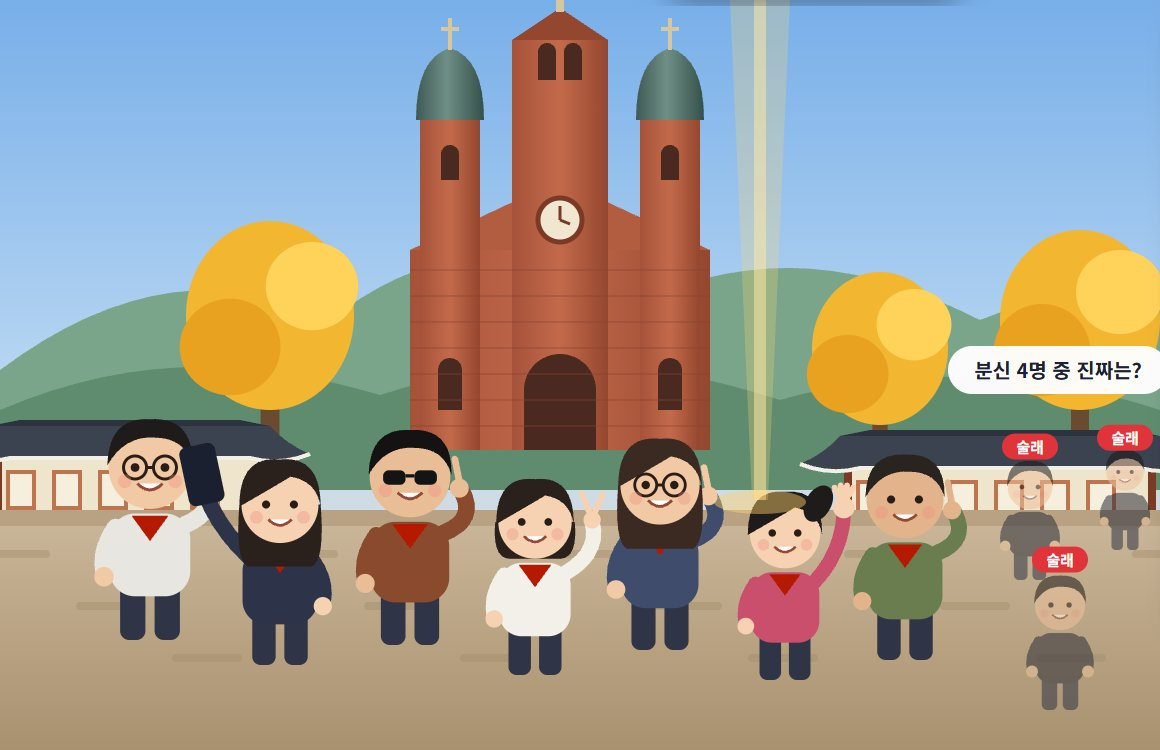
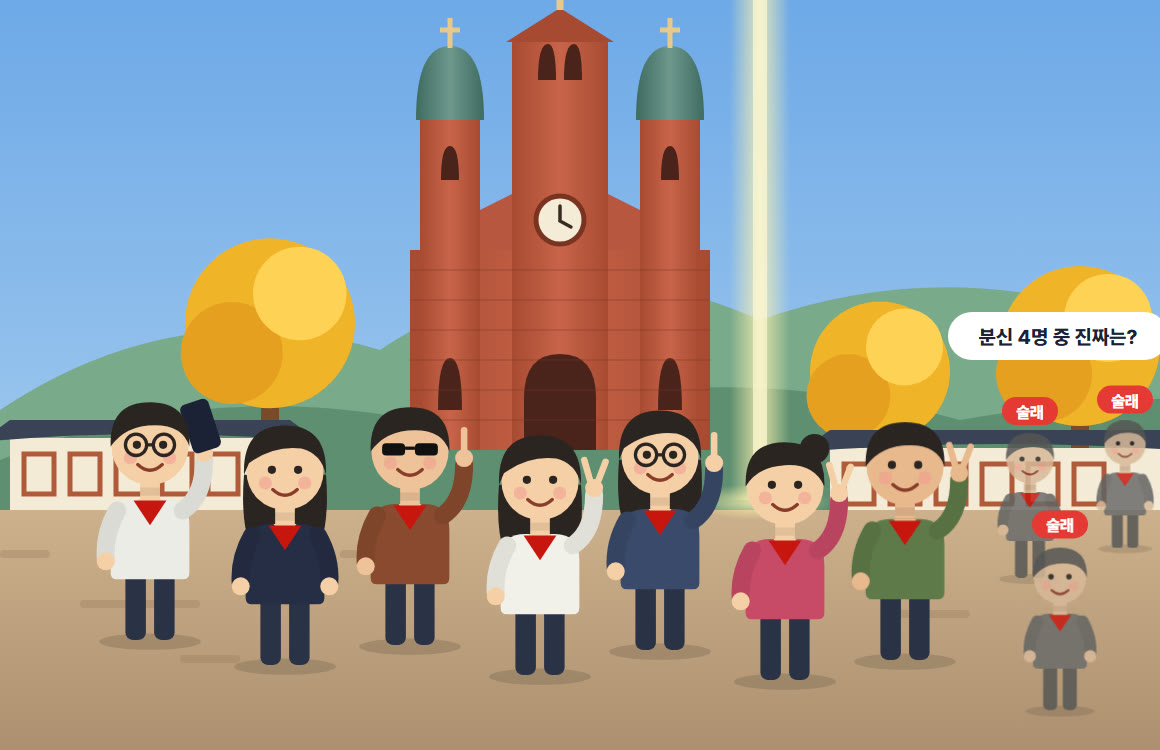
비전 퀘스트 장면 그림 다시 그림: 목 연결, 긴 머리는 몸 뒤로, 미션 빛줄기는 사람 뒤로
- 그림 원본 design/visionquest-scene.html 추가 (카드용은 ?card)

diff --git a/design/visionquest-scene.html b/design/visionquest-scene.html
@@ -1,0 +1,156 @@
+<!doctype html>
+<html lang="ko"><head><meta charset="utf-8">
+<link rel="stylesheet" href="https://cdn.jsdelivr.net/gh/orioncactus/pretendard@v1.3.9/dist/web/static/pretendard.css">
+<style>
+html,body{margin:0;background:#6aa5e6;overflow:hidden}
+svg{display:block}
+text{font-family:Pretendard,"Malgun Gothic",sans-serif;font-weight:800}
+</style></head>
+<body>
+<!-- 비전 퀘스트 사용 장면 그림 (참가자 사진 대신).
+     ?card 를 붙이면 카드용(위 배지·미션·휴대폰 없이 0,150 ~ 1160×750 영역) -->
+<svg id="s" xmlns="http://www.w3.org/2000/svg" width="1600" height="900" viewBox="0 0 1600 900"></svg>
+<script>
+const CARD = location.search.includes("card");
+const svg = document.getElementById("s");
+if (CARD) { svg.setAttribute("width",1160); svg.setAttribute("height",750); svg.setAttribute("viewBox","0 150 1160 750"); }
+const out = [];
+const add = s => out.push(s);
+
+// 사람: (x, 발끝 y) 기준. 머리 → 목 → 몸통이 이어지고, 긴 머리는 몸통 뒤에 그린다.
+function person(o) {
+  const s = o.s || 1, skin = o.skin || "#f6cfa8", hair = o.hair || "#2a2422", shirt = o.shirt, pants = o.pants || "#2b3247";
+  const g = [];
+  g.push(`<g transform="translate(${o.x} ${o.y}) scale(${s})" opacity="${o.op || 1}">`);
+  g.push(`<ellipse cx="0" cy="2" rx="62" ry="10" fill="#000" opacity=".12"/>`);
+  // 긴 머리(뒤): 어깨 높이까지만, 몸통이 덮는다
+  if (o.style === "long") g.push(`<path d="M-50 -232 Q-54 -180 -44 -150 L44 -150 Q54 -180 50 -232 Z" fill="${hair}"/>`);
+  // 다리
+  g.push(`<rect x="-30" y="-92" width="25" height="92" rx="9" fill="${pants}"/><rect x="5" y="-92" width="25" height="92" rx="9" fill="${pants}"/>`);
+  // 목
+  g.push(`<rect x="-12" y="-200" width="24" height="40" rx="8" fill="${skin}"/><rect x="-12" y="-186" width="24" height="10" fill="#000" opacity=".08"/>`);
+  // 몸통
+  g.push(`<path d="M-48 -82 L-48 -140 Q-48 -172 -18 -172 L18 -172 Q48 -172 48 -140 L48 -82 Q48 -74 40 -74 L-40 -74 Q-48 -74 -48 -82 Z" fill="${shirt}"/>`);
+  // 목 아래 V 넥과 빨간 스카프
+  g.push(`<path d="M-14 -172 L0 -150 L14 -172 Z" fill="${skin}"/><path d="M-20 -170 L20 -170 L0 -140 Z" fill="#c8160f"/>`);
+  // 팔
+  const arm = (d, hx, hy) => g.push(`<path d="${d}" fill="none" stroke="${shirt}" stroke-width="22" stroke-linecap="round" stroke-linejoin="round"/><path d="${d}" fill="none" stroke="#000" stroke-opacity=".07" stroke-width="22" stroke-linecap="round"/><circle cx="${hx}" cy="${hy}" r="11" fill="${skin}"/>`);
+  arm("M-40 -158 Q-56 -130 -54 -100", -54, -96);
+  const r = o.arm || "down";
+  if (r === "down") arm("M40 -158 Q56 -130 54 -100", 54, -96);
+  else {
+    arm("M40 -158 Q66 -175 66 -220", 66, -228);
+    if (r === "v") g.push(`<path d="M62 -234 L54 -262 M70 -234 L80 -260" stroke="${skin}" stroke-width="8" stroke-linecap="round"/>`);
+    if (r === "point") g.push(`<path d="M66 -234 L66 -262" stroke="${skin}" stroke-width="8" stroke-linecap="round"/>`);
+    if (r === "phone") g.push(`<rect x="44" y="-292" width="36" height="62" rx="7" transform="rotate(-18 62 -260)" fill="#1c2236"/>`);
+  }
+  // 머리
+  g.push(`<circle cx="0" cy="-236" r="47" fill="${skin}"/>`);
+  if (o.style === "short") g.push(`<path d="M-48 -236 Q-50 -290 0 -290 Q50 -290 48 -236 Q40 -262 6 -262 Q-30 -262 -48 -236 Z" fill="${hair}"/>`);
+  if (o.style === "long") g.push(`<path d="M-50 -232 Q-52 -292 0 -292 Q52 -292 50 -232 Q44 -258 20 -264 Q-14 -268 -44 -246 Z" fill="${hair}"/>`);
+  if (o.style === "bun") g.push(`<circle cx="36" cy="-282" r="18" fill="${hair}"/><path d="M-48 -236 Q-50 -290 0 -290 Q50 -290 48 -236 Q36 -264 0 -262 Q-34 -260 -48 -236 Z" fill="${hair}"/>`);
+  if (o.style === "bald") g.push(`<path d="M-46 -246 Q-40 -286 0 -286 Q40 -286 46 -246 Q20 -266 -46 -246 Z" fill="${hair}"/>`);
+  // 얼굴
+  g.push(`<circle cx="-24" cy="-222" r="8" fill="#f29a8f" opacity=".55"/><circle cx="24" cy="-222" r="8" fill="#f29a8f" opacity=".55"/>`);
+  if (o.sun) g.push(`<rect x="-34" y="-246" width="28" height="15" rx="5" fill="#111"/><rect x="6" y="-246" width="28" height="15" rx="5" fill="#111"/><path d="M-6 -240 L6 -240" stroke="#111" stroke-width="4"/>`);
+  else {
+    g.push(`<circle cx="-16" cy="-238" r="5" fill="#2a2422"/><circle cx="16" cy="-238" r="5" fill="#2a2422"/>`);
+    if (o.glasses) g.push(`<g fill="none" stroke="#2a2422" stroke-width="4"><circle cx="-17" cy="-238" r="13"/><circle cx="17" cy="-238" r="13"/><path d="M-4 -238 L4 -238"/></g>`);
+  }
+  g.push(`<path d="M-15 -214 Q0 -200 15 -214" fill="none" stroke="#8a3b2b" stroke-width="4" stroke-linecap="round"/>`);
+  g.push(`</g>`);
+  if (o.label) g.push(`<g transform="translate(${o.x} ${o.y - 310 * s - 10})"><rect x="-28" y="-16" width="56" height="28" rx="14" fill="#e53935"/><text x="0" y="5" font-size="16" fill="#fff" text-anchor="middle">${o.label}</text></g>`);
+  add(g.join(""));
+}
+
+// 배경
+add(`<defs>
+<linearGradient id="sky" x1="0" y1="0" x2="0" y2="1"><stop offset="0" stop-color="#5f9fe6"/><stop offset="1" stop-color="#b9d8f2"/></linearGradient>
+<linearGradient id="ground" x1="0" y1="0" x2="0" y2="1"><stop offset="0" stop-color="#cdb08c"/><stop offset="1" stop-color="#ad9070"/></linearGradient>
+<linearGradient id="brick" x1="0" y1="0" x2="1" y2="0"><stop offset="0" stop-color="#a84a32"/><stop offset=".5" stop-color="#c8644a"/><stop offset="1" stop-color="#a84a32"/></linearGradient>
+<linearGradient id="dome" x1="0" y1="0" x2="1" y2="0"><stop offset="0" stop-color="#3f6b62"/><stop offset=".5" stop-color="#6e978d"/><stop offset="1" stop-color="#3f6b62"/></linearGradient>
+<linearGradient id="beam" x1="0" y1="0" x2="1" y2="0"><stop offset="0" stop-color="#fff3b0" stop-opacity="0"/><stop offset=".5" stop-color="#fff3b0" stop-opacity=".8"/><stop offset="1" stop-color="#fff3b0" stop-opacity="0"/></linearGradient>
+<radialGradient id="glow"><stop offset="0" stop-color="#fff3b0" stop-opacity=".9"/><stop offset="1" stop-color="#fff3b0" stop-opacity="0"/></radialGradient>
+<clipPath id="vf"><rect x="1196" y="238" width="300" height="452"/></clipPath>
+</defs>
+<rect width="1600" height="900" fill="url(#sky)"/>
+<circle cx="1080" cy="78" r="44" fill="#e8ece6"/>
+<path d="M0 560 Q180 440 380 500 Q560 380 760 470 Q960 400 1160 480 Q1380 420 1600 500 L1600 700 L0 700 Z" fill="#7aa98b"/>
+<path d="M0 610 Q220 520 460 580 Q700 500 960 570 Q1240 520 1600 580 L1600 700 L0 700 Z" fill="#5f8f72"/>`);
+
+const tree = (x, y, r) => add(`<rect x="${x - 9}" y="${y}" width="18" height="${660 - y}" fill="#7a4a2a"/><circle cx="${x}" cy="${y - r * .55}" r="${r}" fill="#f0b429"/><circle cx="${x - r * .45}" cy="${y - r * .2}" r="${r * .6}" fill="#e6a020"/><circle cx="${x + r * .35}" cy="${y - r * .9}" r="${r * .55}" fill="#ffd257"/>`);
+tree(270, 520, 85); tree(880, 560, 70); tree(1080, 540, 80);
+
+// 전동성당
+add(`<g>
+<rect x="410" y="400" width="300" height="200" fill="url(#brick)"/>
+<path d="M480 360 L560 320 L640 360 L640 400 L480 400 Z" fill="#b85640"/>
+<rect x="420" y="268" width="60" height="332" fill="url(#brick)"/><path d="M416 270 Q416 196 450 196 Q484 196 484 270 Z" fill="url(#dome)"/>
+<rect x="640" y="268" width="60" height="332" fill="url(#brick)"/><path d="M636 270 Q636 196 670 196 Q704 196 704 270 Z" fill="url(#dome)"/>
+<path d="M450 168 L450 198 M440 180 L460 180 M670 168 L670 198 M660 180 L680 180" stroke="#e7c98e" stroke-width="5"/>
+<rect x="512" y="190" width="96" height="410" fill="url(#brick)"/><path d="M506 192 L560 158 L614 192 Z" fill="#a84a32"/>
+<path d="M560 128 L560 160 M546 142 L574 142" stroke="#e7c98e" stroke-width="7"/>
+<circle cx="560" cy="370" r="24" fill="#f5ecd8" stroke="#7a3322" stroke-width="5"/><path d="M560 356 L560 371 L571 377" stroke="#3a2a22" stroke-width="3.5" fill="none" stroke-linecap="round"/>
+<path d="M538 230 Q538 194 548 194 Q556 194 556 230 Z M564 230 Q564 194 574 194 Q582 194 582 230 Z" fill="#4a231b"/>
+<path d="M441 330 Q441 296 450 296 Q459 296 459 330 Z M661 330 Q661 296 670 296 Q679 296 679 330 Z" fill="#4a231b"/>
+<path d="M438 560 Q438 508 450 508 Q462 508 462 560 Z M658 560 Q658 508 670 508 Q682 508 682 560 Z" fill="#4a231b"/>
+<path d="M524 600 L524 548 Q524 504 560 504 Q596 504 596 548 L596 600 Z" fill="#4a231b"/>
+${[420, 450, 480, 510, 540, 570].map(y => `<path d="M410 ${y} L710 ${y}" stroke="#7a3322" stroke-opacity=".25" stroke-width="2"/>`).join("")}
+</g>`);
+
+// 한옥 지붕과 담
+const hanok = (x1, x2, y) => add(`<rect x="${x1 + 10}" y="${y + 18}" width="${x2 - x1 - 20}" height="72" fill="#f4ead6"/>
+${Array.from({ length: Math.floor((x2 - x1 - 40) / 46) }, (_, i) => `<rect x="${x1 + 24 + i * 46}" y="${y + 34}" width="30" height="40" fill="none" stroke="#b05a3a" stroke-width="5"/>`).join("")}
+<path d="M${x1 - 20} ${y + 22} Q${(x1 + x2) / 2} ${y + 6} ${x2 + 20} ${y + 22} L${x2 - 10} ${y} L${x1 + 10} ${y} Z" fill="#3b4256"/>`);
+hanok(0, 300, 570); hanok(820, 1180, 580); hanok(1440, 1600, 560);
+
+// 땅
+add(`<rect x="0" y="660" width="1600" height="240" fill="url(#ground)"/>
+${[[0, 700, 50], [80, 750, 120], [180, 805, 60], [340, 700, 100], [880, 760, 90], [1200, 800, 120], [1480, 750, 100]].map(([x, y, w]) => `<rect x="${x}" y="${y}" width="${w}" height="8" rx="4" fill="#9a7d5e" opacity=".35"/>`).join("")}`);
+
+// 미션 빛줄기: 사람보다 먼저 그려서 머리 뒤에 있게 한다
+add(`<rect x="730" y="150" width="60" height="500" fill="url(#beam)"/><rect x="753" y="150" width="14" height="500" fill="#fff8d6" opacity=".7"/><ellipse cx="760" cy="652" rx="70" ry="18" fill="url(#glow)"/>`);
+
+// 진행자 술래 분신 (뒤쪽, 흐리게)
+person({ x: 1030, y: 728, s: .5, shirt: "#6b6b6b", pants: "#555", skin: "#d9b99a", hair: "#555", style: "short", op: .85, label: "술래" });
+person({ x: 1125, y: 698, s: .44, shirt: "#6b6b6b", pants: "#555", skin: "#d9b99a", hair: "#555", style: "short", op: .85, label: "술래" });
+
+// 1조 비전포즈
+const team = [
+  { x: 150, y: 790, shirt: "#ecebe6", style: "short", glasses: true, arm: "phone" },
+  { x: 285, y: 815, shirt: "#262d45", style: "long" },
+  { x: 410, y: 795, shirt: "#8a4a30", style: "short", sun: true, arm: "point", skin: "#eec29a" },
+  { x: 540, y: 825, shirt: "#f3f0ea", style: "long", arm: "v" },
+  { x: 660, y: 800, shirt: "#3b4a6b", style: "long", glasses: true, arm: "point" },
+  { x: 785, y: 830, shirt: "#c84a68", style: "bun", hair: "#2a2422", arm: "v" },
+  { x: 905, y: 810, shirt: "#5f7a4a", style: "short", arm: "v", skin: "#e8b88e" },
+];
+team.forEach(p => person({ ...p, s: .82 }));
+person({ x: 1060, y: 860, s: .56, shirt: "#6b6b6b", pants: "#555", skin: "#d9b99a", hair: "#555", style: "short", op: .85, label: "술래" });
+
+add(`<g><rect x="948" y="462" width="220" height="48" rx="24" fill="#fff"/><text x="1058" y="494" font-size="20" fill="#1c2236" text-anchor="middle">분신 4명 중 진짜는?</text></g>`);
+
+if (!CARD) {
+  add(`<g><rect x="40" y="40" width="520" height="104" rx="22" fill="#1c2236" opacity=".96"/>
+<text x="68" y="84" font-size="18" fill="#ffc94d">2026.10.31 · 전주 한옥마을</text>
+<text x="68" y="122" font-size="31" fill="#fff">27명 · 5개 조 · 65분 실제 게임</text></g>
+<g><rect x="662" y="88" width="300" height="56" rx="28" fill="#1c2236" opacity=".96"/><circle cx="692" cy="116" r="15" fill="#ff7a59"/><rect x="686" y="110" width="12" height="12" rx="2" fill="none" stroke="#fff" stroke-width="2.5"/>
+<text x="714" y="124" font-size="21" fill="#fff">전동성당 비전포즈</text><text x="940" y="124" font-size="18" fill="#ffc94d" text-anchor="end">30점</text></g>`);
+  // 휴대폰 조준 카메라
+  add(`<g><rect x="1180" y="134" width="332" height="652" rx="44" fill="#141a2c"/><rect x="1196" y="150" width="300" height="620" rx="32" fill="#4b5568"/>
+<text x="1346" y="186" font-size="20" fill="#fff" text-anchor="middle">찾을 술래 · 진행자</text>
+<rect x="1272" y="200" width="148" height="30" rx="15" fill="#e53935"/><text x="1346" y="221" font-size="16" fill="#fff" text-anchor="middle">바로 근처!</text>
+<g clip-path="url(#vf)"><rect x="1196" y="238" width="300" height="452" fill="#cfe2f2"/><rect x="1196" y="450" width="300" height="240" fill="#a99273"/>
+<rect x="1210" y="320" width="160" height="120" fill="#f1e8d6"/><path d="M1196 330 L1380 330 L1360 300 L1210 300 Z" fill="#3b4256"/>
+<rect x="1400" y="300" width="110" height="140" fill="#f1e8d6"/><path d="M1386 304 L1510 304 L1500 280 L1400 280 Z" fill="#3b4256"/></g>
+<rect x="1196" y="690" width="300" height="80" fill="#2e3546"/><circle cx="1346" cy="730" r="24" fill="#fff"/><circle cx="1346" cy="730" r="19" fill="none" stroke="#2e3546" stroke-width="3"/></g>`);
+  add(`<g clip-path="url(#vf)">`);
+  person({ x: 1346, y: 600, s: 1.04, shirt: "#9aa3b5", pants: "#2b3247", style: "short", arm: "v" });
+  add(`<g transform="translate(1346 470)" opacity=".95"><rect x="-56" y="-58" width="112" height="116" fill="#9aa3b5" opacity="0"/>
+${[-34, -16, 2, 20].map(y => `<rect x="-50" y="${y}" width="100" height="6" fill="#2b3247" opacity=".7"/>`).join("")}</g></g>`);
+  add(`<g fill="none" stroke="#e53935" stroke-width="5"><circle cx="1346" cy="470" r="70"/><path d="M1346 384 L1346 420 M1346 520 L1346 556 M1260 470 L1296 470 M1396 470 L1432 470"/></g><circle cx="1346" cy="470" r="6" fill="#e53935"/>`);
+}
+
+svg.innerHTML = out.join("");
+</script>
+</body></html>

diff --git a/CLAUDE.md b/CLAUDE.md
@@ -57,7 +57,8 @@ videos?[{src,poster?,label,wide?}](영상이 여럿일 때 video 대신, 적은 
 (그 길 = the-way-jesus.web.app 저장소, 비전 퀘스트 = team-esc 저장소. 화면은 실제 사이트를 Playwright로 캡처한다.
 비전 퀘스트는 https://team-esc.web.app/?demo 로 로그인 없이 가짜 참가자 화면을 볼 수 있다.
 비전 퀘스트 '실전 기록'은 2026-10-31 전주 한옥마을 게임 Q9A54의 실제 자료(`firebase database:get /games/Q9A54 --project team-esc`)에서 센 숫자다.
-참가자 사진은 쓰지 않고 그림으로 다시 그렸다: shots/visionquest-scene.jpg, gallery/visionquest-jeonju.jpg)
+참가자 사진은 쓰지 않고 그림으로 다시 그렸다: shots/visionquest-scene.jpg, gallery/visionquest-jeonju.jpg.
+장면 그림 원본은 design/visionquest-scene.html (Chrome 헤드리스로 1600×900 캡처, ?card 를 붙이면 카드용 1160×750))
 
 교구 레크리에이션 실전 운영 기록(record)은 2026-11-01 행사 서버 기록 요약(교구레크레이션 세션의 운영 기록 페이지)에서 가져왔다.
 평소에는 행사 뒤 데이터를 남기지 않는다(소개 글 그대로). 이 기록은 첫 운영이라 소개용으로 일부러 남긴 것이다.
